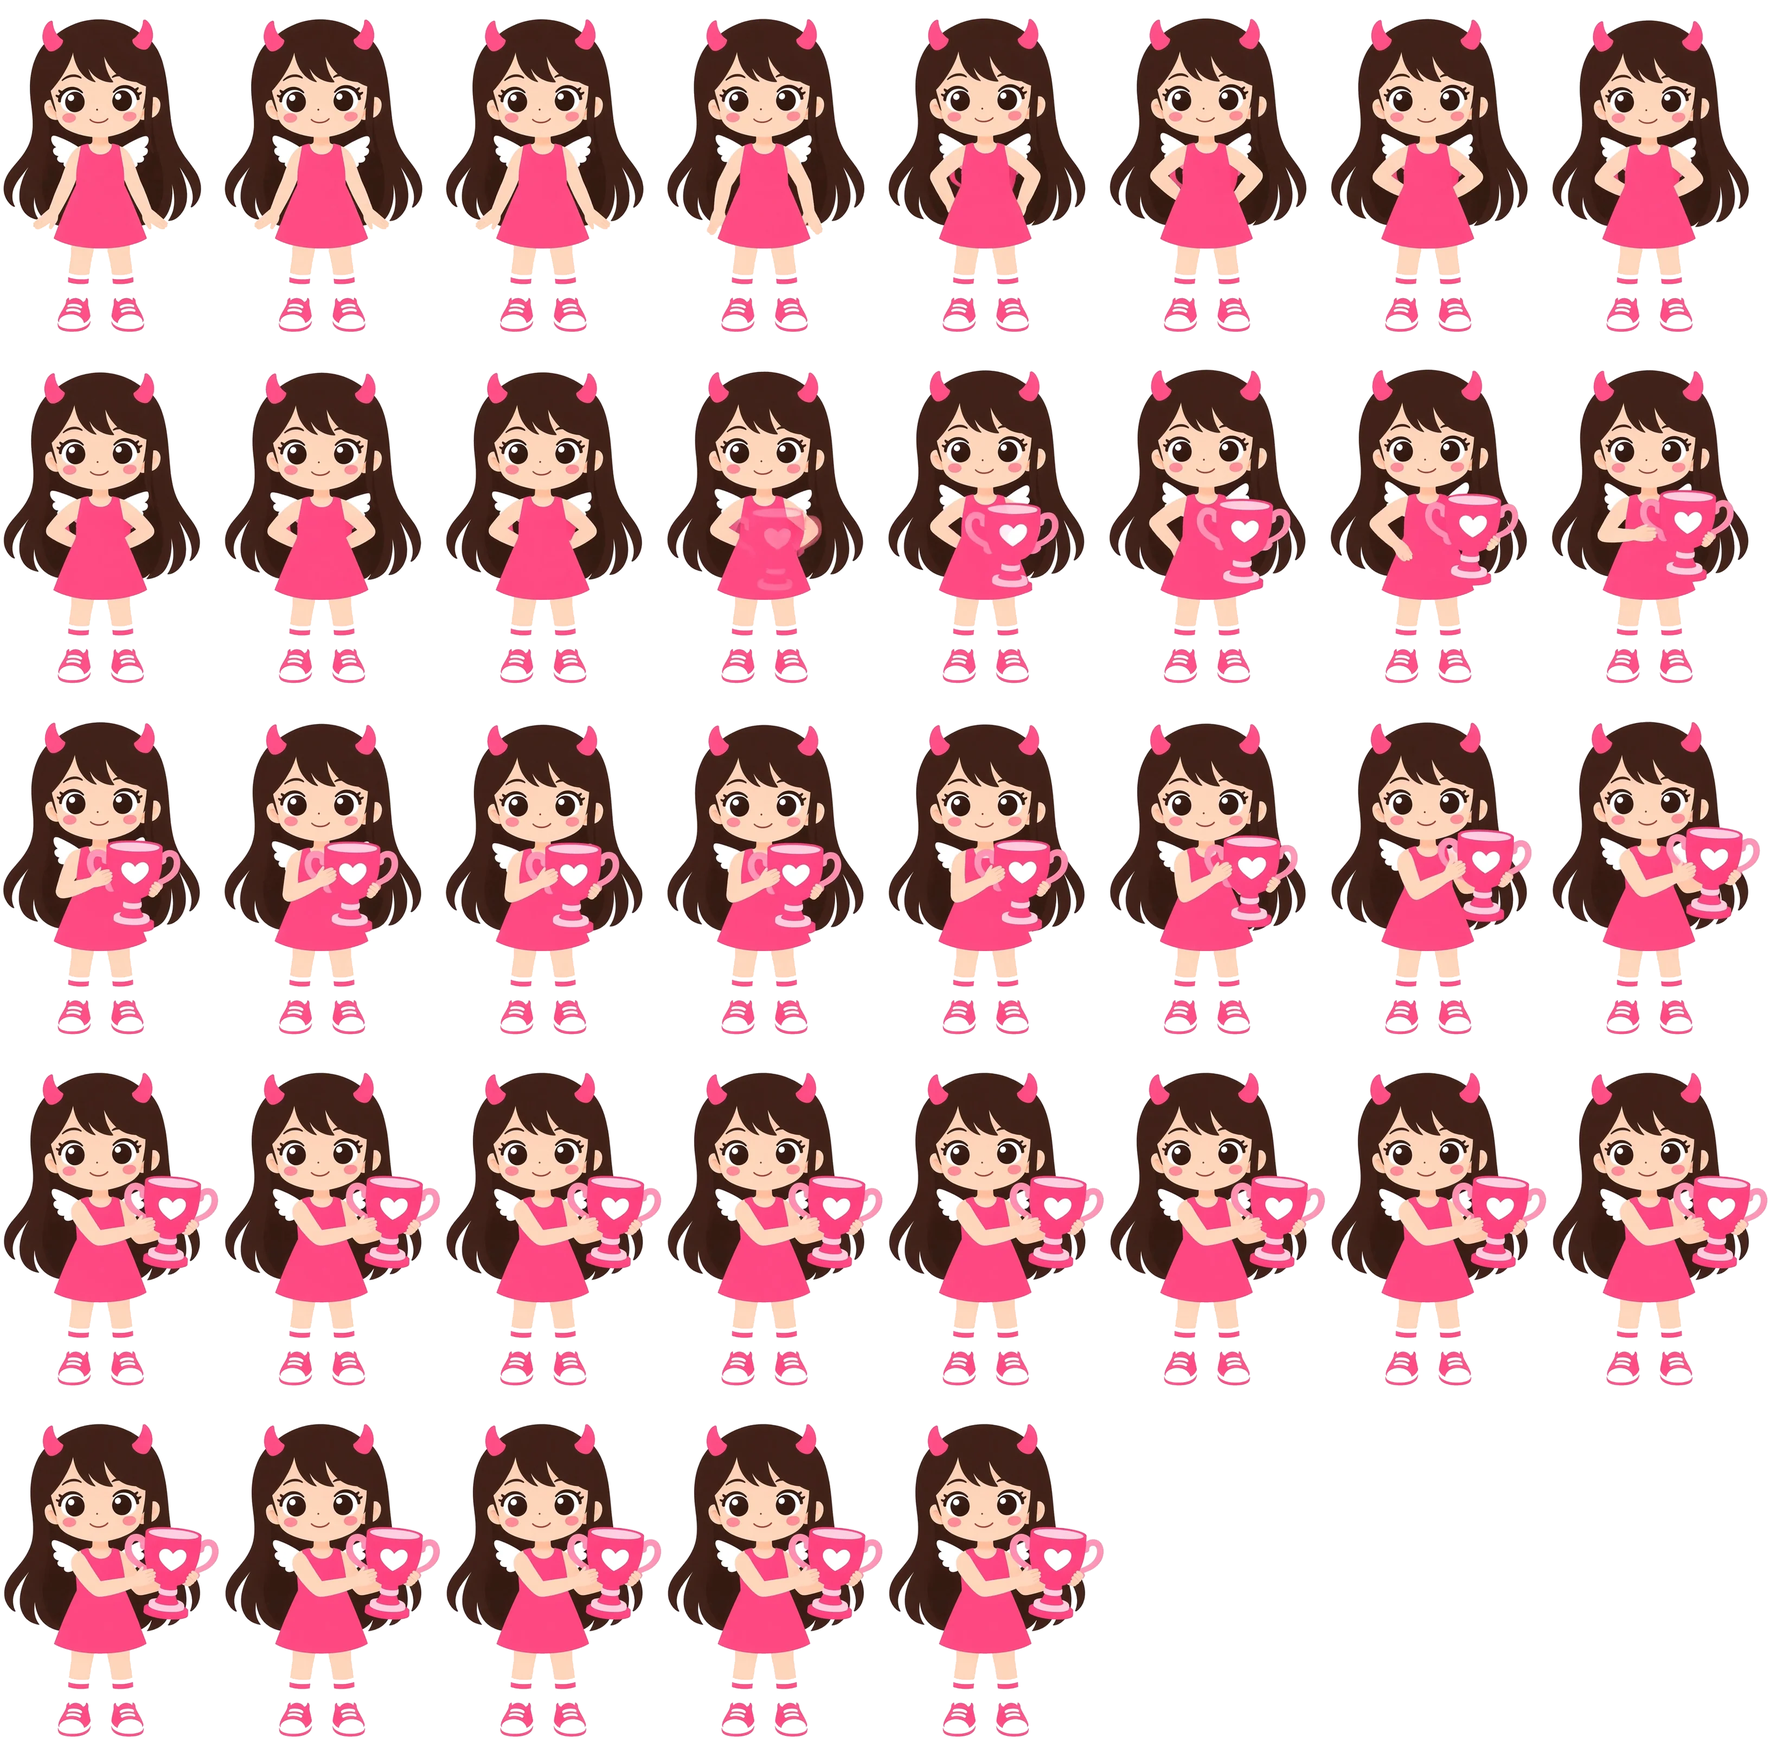
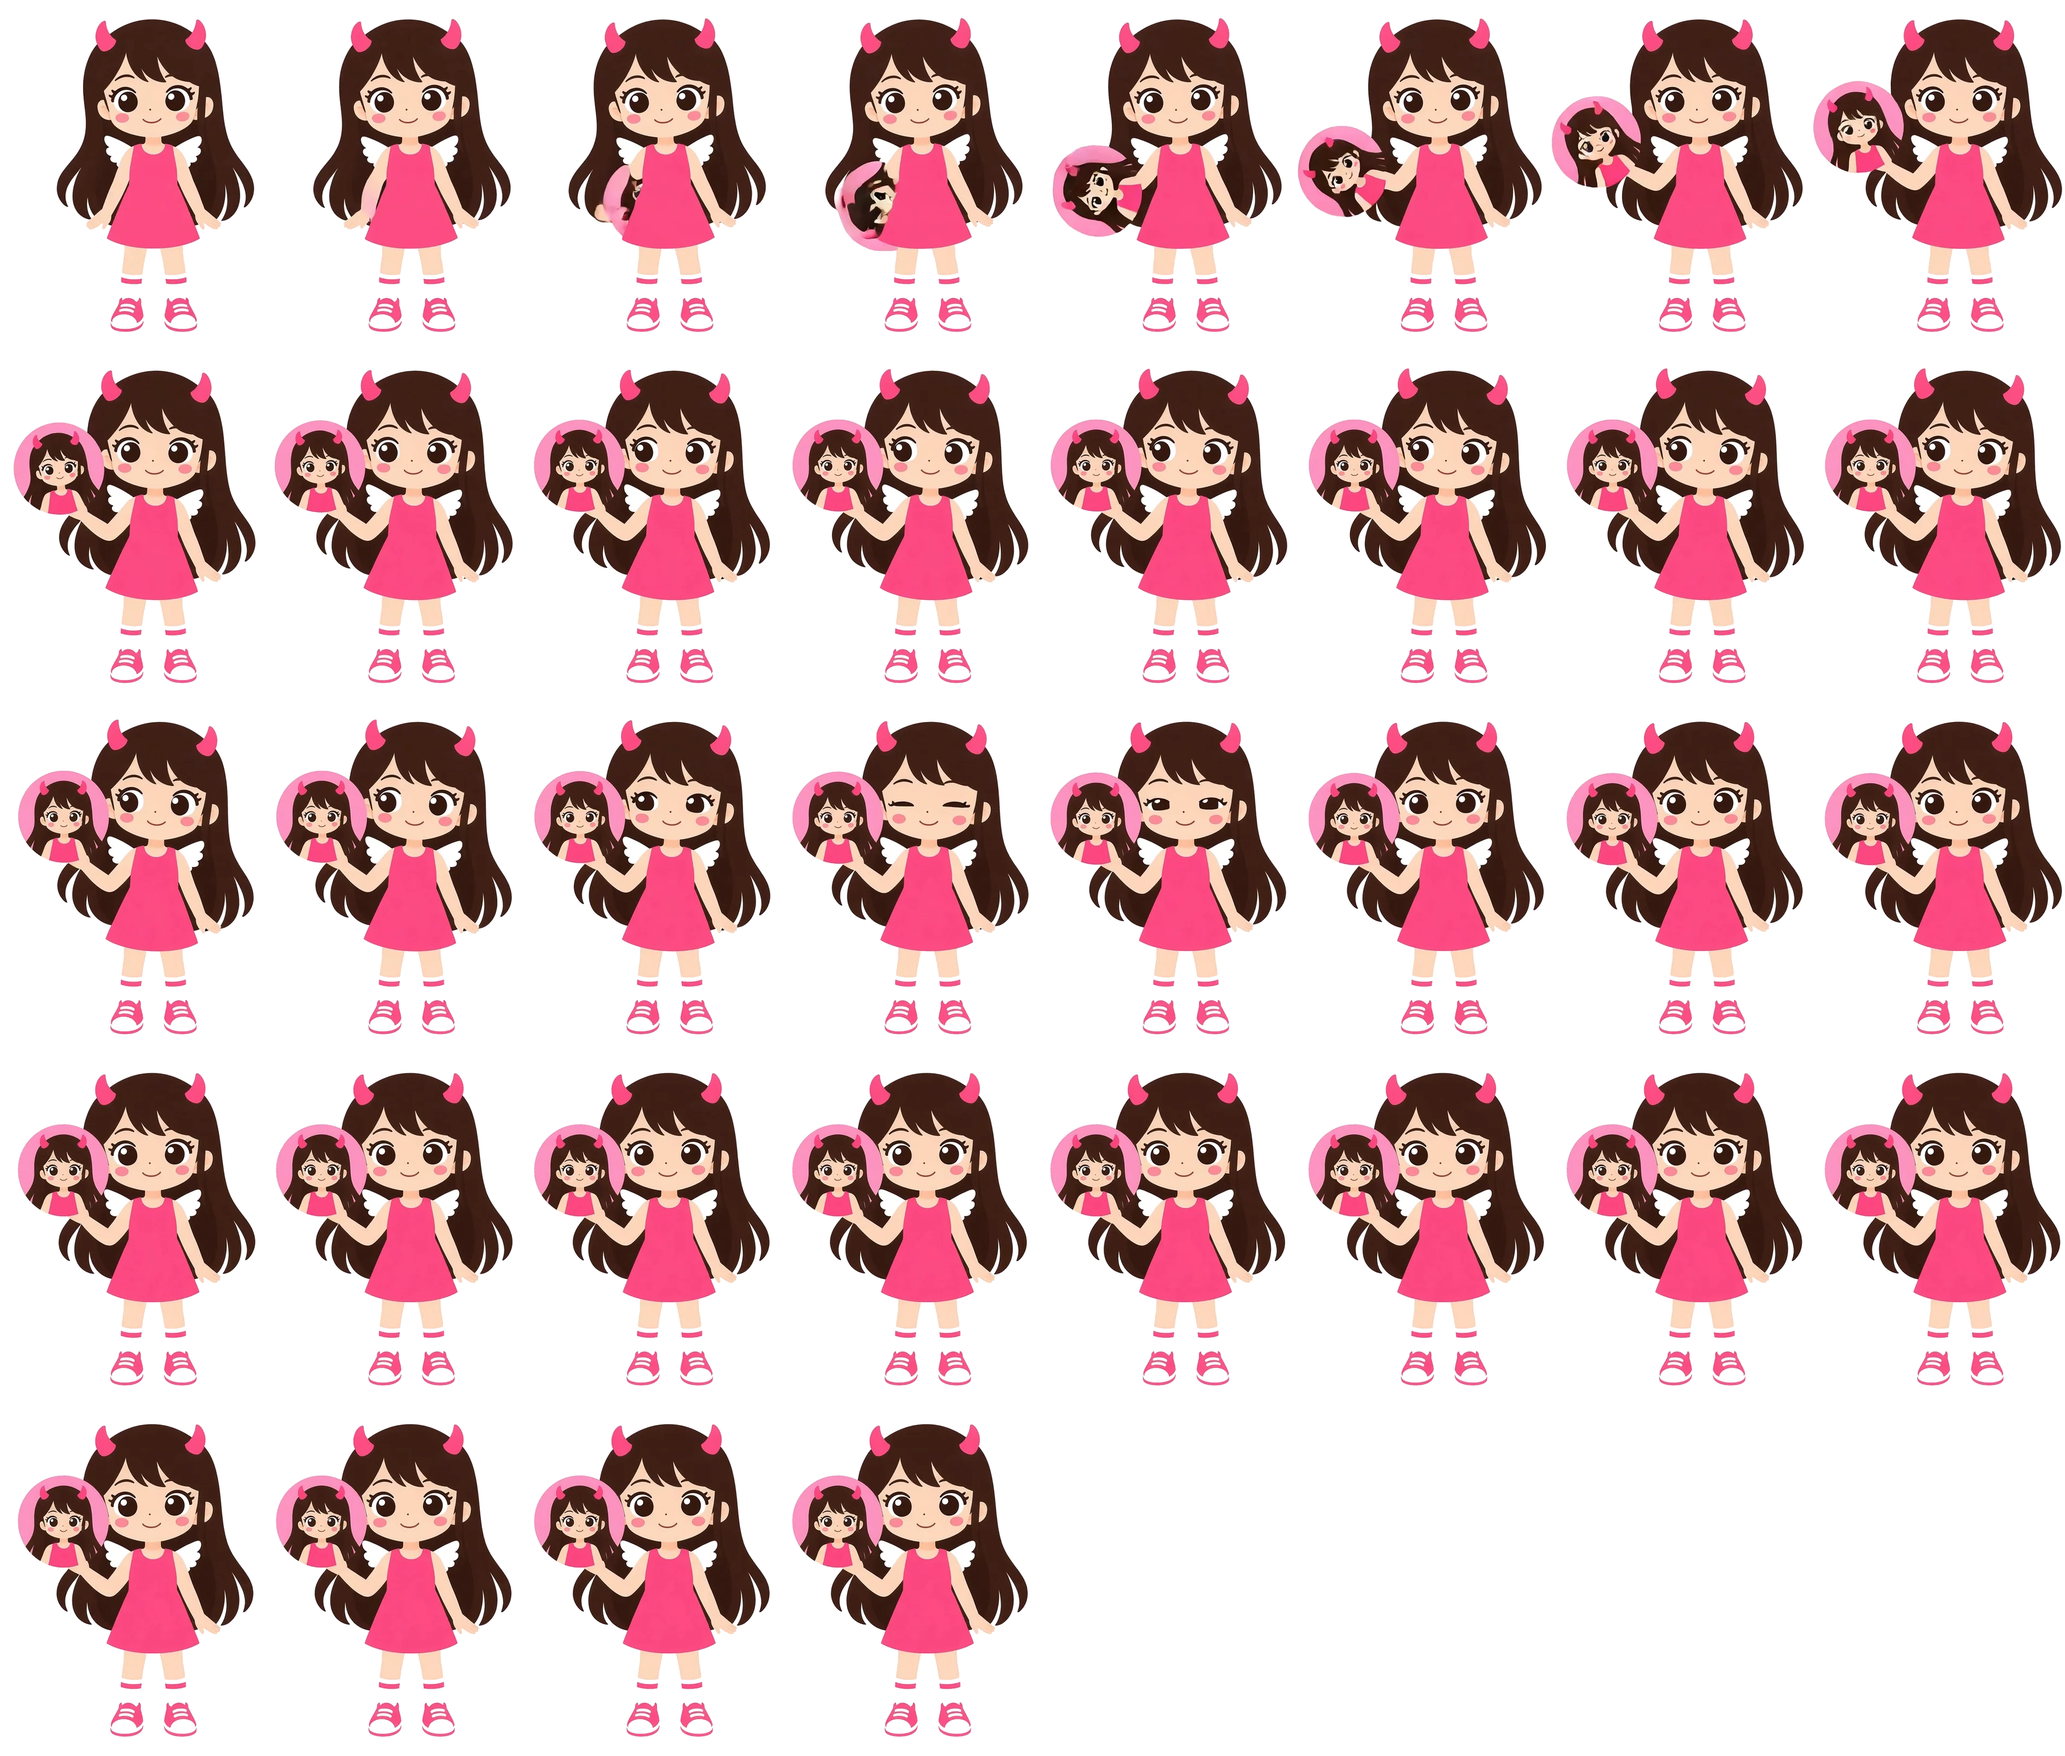
새 메뉴 자세 6개·쏙 등장·머리 하트·뿔 손가락하트 영상 적용
Claude-Session: https://claude.ai/code/session_01GAFtkmkAShqGxSHJr2soeh

diff --git a/index.html b/index.html
@@ -424,6 +424,7 @@ body.admin .page .cards .card{cursor:grab;outline:1.5px dashed var(--pink-light)
 .obj[data-go="train"]:hover .obj-ic img{animation:o-rise .8s cubic-bezier(.3,1.4,.5,1) infinite}
 .obj[data-go="class"]:hover .obj-ic img{animation:o-swing .8s ease-in-out infinite}
 @media (prefers-reduced-motion:reduce){.obj:hover .obj-ic img{animation:none!important}}
+.objs{z-index:5}
 </style>
 
 <div class="frame" aria-hidden="true"></div>
@@ -715,16 +716,15 @@ function frame(now){
   requestAnimationFrame(frame);
   if(mode==='loading'||!isHome()) return;
   cx2.clearRect(0,0,cv.width,cv.height);
-  if(mode==='intro'){   // 바닥에서 쏙 소환
-    if(!ready('idle')) return;
-    const t=(now-introStart)/1000, FOOT=686, p=Math.max(0,Math.min(1,(t-.18)/.62));
-    const c1=1.9, e=p<1?1+(c1+1)*Math.pow(p-1,3)+c1*Math.pow(p-1,2):1;
-    const r=cv.getBoundingClientRect(), k=r.width/cv.width, sx=r.left+(META.box[0]+META.box[2]/2)*k, sy=r.top+FOOT*k;
-    if(t<.5 && now-spT>40){ spT=now; for(let j=0;j<3;j++) addMote(sx+(Math.random()-.5)*META.box[2]*.55*k, sy-Math.random()*8, .8+Math.random()*1.6); }
-    if(!introPop && p>.55){ introPop=true; burst(sx,sy-r.height*.35,22); }
-    if(t<1.05){
-      cx2.save(); cx2.beginPath(); cx2.rect(0,0,cv.width,FOOT); cx2.clip();
-      cx2.translate(0,Math.max(0,1-e)*FOOT*.92); draw('idle',0); cx2.restore(); return;
+  if(mode==='intro'){   // 바닥 구멍에서 쏙 올라오는 영상
+    if(!ready('intro_pop')){ if(now-introStart>2500){ mode='live'; goIdle(now); } return; }
+    if(!introPop){ introPop=true; introStart=now; }
+    const s=META.sets.intro_pop, i=Math.floor((now-introStart)/1000*s.fps);
+    if(i<s.count){
+      draw('intro_pop',i);
+      if(i>=5&&i<=20&&now-spT>50){ spT=now; const r=cv.getBoundingClientRect(), k=r.width/cv.width, sx=r.left+(META.box[0]+META.box[2]/2)*k, sy=r.top+690*k;
+        for(let j=0;j<3;j++) addMote(sx+(Math.random()-.5)*META.box[2]*.5*k, sy-Math.random()*r.height*.6, .7+Math.random()*1.4); }
+      return;
     }
     mode='live'; goIdle(now); vert='mid'; trans=null; lx=0;
   }
@@ -813,9 +813,9 @@ async function boot(){
   CORE=coarse?['idle','turn_mid']:['idle','turn_mid','turn_up','turn_down',...['up','down'].flatMap(v=>['left','center','right'].map(c=>`look_${v}_${c}`))];
   cv.width=META.vw; cv.height=META.box[3]; cx2.imageSmoothingEnabled=true; cx2.imageSmoothingQuality='high';
   hit.style.left=(META.box[0]/META.vw*100)+'%'; hit.style.width=(META.box[2]/META.vw*100)+'%';
-  await loadSet('idle');
+  await Promise.all([loadSet('idle'),loadSet('intro_pop')]);
   $('#loading').hidden=true;
-  (async()=>{ for(const k of CORE) await loadSet(k); if(!coarse) for(const k of ['career','video','webapp','train','class','contact']) await loadSet('menu_'+k); })();
+  (async()=>{ for(const k of CORE) await loadSet(k); if(!coarse) for(const k of ['career','promo','video','webapp','lecture','class']) await loadSet('menu_'+k); })();
   if(reduce){ mode='live'; goIdle(performance.now()); } else { mode='intro'; introPop=false; introStart=performance.now(); }
   requestAnimationFrame(frame);
 }
@@ -824,9 +824,9 @@ boot();
 /* 부위 클릭 반응 */
 function say(){}
 const ZONES=[
-  {x0:.12,x1:.40,y0:0,y1:.13,k:'react_shoe'},
-  {x0:.60,x1:.88,y0:0,y1:.13,k:'react_shoe'},
-  {x0:.22,x1:.78,y0:.03,y1:.40,k:'react_belly'},
+  {x0:.12,x1:.40,y0:0,y1:.13,k:'react_horn'},
+  {x0:.60,x1:.88,y0:0,y1:.13,k:'react_horn'},
+  {x0:.22,x1:.78,y0:.03,y1:.40,k:'react_head'},
   {x0:.12,x1:.41,y0:.37,y1:.58,k:'react_wing'},
   {x0:.57,x1:.80,y0:.37,y1:.58,k:'react_wing'},
   {x0:.25,x1:.75,y0:.40,y1:.80,k:'react_belly'},
@@ -842,13 +842,13 @@ hit.addEventListener('pointerleave',()=>lastZ=null);
 hit.addEventListener('click',e=>{
   if(mode!=='live'||(clip&&clip.startsWith('menu_'))) return;
   const r=hit.getBoundingClientRect(), y=(e.clientY-r.top)/r.height;
-  const k=(zoneAt(e)||{k:y<.4?'react_wing':'react_belly'}).k;
+  const k=(zoneAt(e)||{k:y<.4?'react_head':'react_belly'}).k;
   burst(e.clientX,e.clientY,14); loadSet(k);
   // 반응 중에 또 누르면 그 자리에서 바로 다시 시작
   if(clip && ready(k)){ startClip(k,performance.now()); } else clipQ=k;
 });
 document.querySelectorAll('.obj').forEach(a=>{
-  const n=({about:'career',promo:'contact'})[a.dataset.go]||a.dataset.go;
+  const n=({about:'career',train:'lecture'})[a.dataset.go]||a.dataset.go;
   a.addEventListener('pointerenter',()=>{ if(mode==='live'&&isHome()&&fine){ poseWant=n; loadSet('menu_'+n); } });
   a.addEventListener('pointerleave',()=>{ poseWant=null; });
 });
@@ -908,8 +908,8 @@ function render(){
 }
 
 /* 메뉴 페이지: 왼쪽 판의 캐릭터가 그 페이지 자세를 함 */
-const sc=document.getElementById('sideCv'), sx2=sc.getContext('2d'), SIDE_X=330, SIDE_W=630;
-const POSE_OF={about:'career',promo:'contact',video:'video',webapp:'webapp',train:'train',class:'class'};
+const sc=document.getElementById('sideCv'), sx2=sc.getContext('2d'), SIDE_X=300, SIDE_W=980;
+const POSE_OF={about:'career',promo:'promo',video:'video',webapp:'webapp',train:'lecture',class:'class'};
 let sidePage=null, sideWant=null, sideCur=null, sPh='in', sF=0, sLast=0, sUntil=0, sAct=null;
 function sideStart(id){ const p=POSE_OF[id]; if(!p||!META) return; sidePage=sideWant=sideCur='menu_'+p; sPh='in'; sF=0; sLast=performance.now(); loadSet(sideCur); }
 function drawSide(n,i){ const s=SETS[n]; if(!s||!s.ready) return false; s.used=performance.now(); i=Math.max(0,Math.min(s.count-1,Math.round(i))); const c=i%s.cols, r=(i/s.cols)|0;
